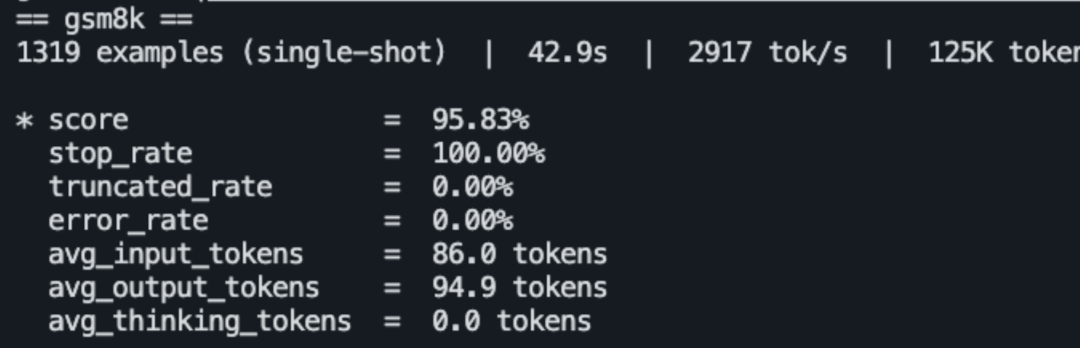
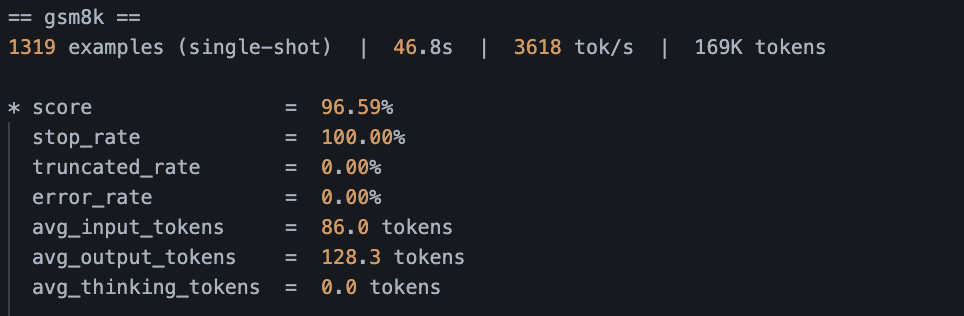
update file 11.11

diff --git a/blog/2026-11-05-deepseek-v41-h200-pd-optimization.md b/blog/2026-11-05-deepseek-v41-h200-pd-optimization.md
@@ -16,7 +16,7 @@ We optimized DeepSeek-V4.1-Flash on an eight-GPU H200 SGLang deployment with a 1
 - **Investigate larger Prefill chunks:** the recorded 8,192 → 16,384-token comparison shows up to **31.3% lower TTFT**. Its E2E and TPOT changes are configuration-level observations; the table does not isolate their causes. The associated Decode graph-metadata work is tracked in PR #46777.
 - **Return MoE outputs with reduce-scatter:** remove full-output replication on the eligible DeepSeek-V4.1 CP return path. Mean profiled MoE output communication time fell by 19.4%–21.7% per rank.
 - **Enable bounded replay with CP and DSpark:** repair compact-output gathering so eager CP Prefill can use late-layer tail computation. The reported TTFT reduction reaches 46.7%.
-- **Combined serving configuration:** across the eight recorded cases, E2E is approximately **15%–64% lower** and TTFT **41%–79% lower**, while TPOT is **3%–52% higher**. This comparison includes the runtime changes, **8K → 16K Prefill chunks**, and **bounded replay**, rather than isolating the contribution of any one optimization.
+- **Combined serving configuration:** across the eight recorded cases, E2E is approximately **15%–64% lower** and TTFT **41%–79% lower**, while TPOT is **3%–52% higher** and GSM8K accuracy falls from **96.74% to 95.38% (−1.36 percentage points)**. This comparison includes the runtime changes, **8K → 16K Prefill chunks**, and **bounded replay**, rather than isolating the contribution of any one optimization.
 
 ## Background: Find the Bottleneck in the PD Pipeline
 
@@ -339,11 +339,11 @@ These serving measurements were recorded separately from Section 4's chunk-size 
 
 The serving table shows **0.8%–3.4% lower E2E latency**. At the 90% label and concurrency 24, TPOT improves from **5.18 to 4.79 ms/token**, but TTFT increases from **1,829 to 1,993 ms**. E2E therefore improves by only **0.8%**, from **4,476 to 4,441 ms**.
 
-The supplied full GSM8K evaluation for MoE reduce-scatter scores **95.83%** on **1,319 single-shot examples**, with no request errors or truncated outputs.
+The supplied full GSM8K evaluation for MoE reduce-scatter scores **96.59%** on **1,319 single-shot examples**, with no request errors or truncated outputs.
 
 ![GSM8K accuracy with MoE reduce-scatter from PR 47247](/images/blog/deepseek-v41-h200-pd/pr-47247-acc.png)
 
-*Figure 27. GSM8K evaluation with Section 5's MoE reduce-scatter: 95.83% accuracy on 1,319 single-shot examples, with 0.00% error and truncated rates.*
+*Figure 27. GSM8K evaluation with Section 5's MoE reduce-scatter: 96.59% accuracy on 1,319 single-shot examples, with 0.00% error and truncated rates.*
 
 *Launch settings: use the [shared commands and configuration table](#prefill-and-decode-launch-commands) for Section 5.*
 
@@ -389,6 +389,8 @@ The table also records TPOT increasing from **2.07 to 2.53 ms/token** in the 70%
 
 The PR reports four-rank validation of token mappings and metadata restoration, nine full-model functional requests, and a 32-question GSM8K smoke test. The supplied **full 1,319-question single-shot evaluation** shown below scores **95.38%**, with a **0.08% truncated-output rate** and **0.00% request errors**. The full GSM8K run extends the evidence beyond the original smoke test, but does not establish broad long-context accuracy parity for the boundary approximation described above.
 
+**SWA bounded replay is an approximate algorithm.** We suspect that differences in numerical computation along this execution path contribute to the lower GSM8K score. This has not been confirmed by an otherwise matched replay-on/off accuracy comparison. The screenshot reports **86 input tokens on average**, below the 128-token tail.
+
 ![Full GSM8K accuracy with bounded replay and the CP DSpark fix from PR 47406](/images/blog/deepseek-v41-h200-pd/pr-47406-acc.png)
 
 *Figure 30. Full GSM8K evaluation for Section 6's bounded-replay configuration: 95.38% accuracy on 1,319 single-shot examples, with a 0.08% truncated rate and 0.00% error rate.*
@@ -428,7 +430,7 @@ TPOT is **2.6%–51.9% higher in all eight cases**. At 90%/concurrency 32, it ri
 
 ### GSM8K Accuracy of the Combined Configuration
 
-The supplied **final combined configuration** scores **95.38%** on **1,319 single-shot GSM8K examples**, compared with **96.74%** in the baseline screenshot—an observed difference of **1.36 percentage points**. The final run has **0.00% request errors** and a **0.08% truncated-output rate**. These screenshots report GSM8K outcomes; they do not by themselves establish long-context quality parity or numerical equivalence.
+The supplied **final combined configuration** scores **95.38%** on **1,319 single-shot GSM8K examples**, compared with **96.74%** in the baseline screenshot—an observed difference of **1.36 percentage points**. The final run has **0.00% request errors** and a **0.08% truncated-output rate**. The cause of the lower score remains unconfirmed; Section 6 discusses our bounded-replay hypothesis and its limitations. These screenshots report GSM8K outcomes; they do not by themselves establish long-context quality parity or numerical equivalence.
 
 ![GSM8K accuracy with all optimizations combined](/images/blog/deepseek-v41-h200-pd/Final-optimization-integration-acc.png)
 
